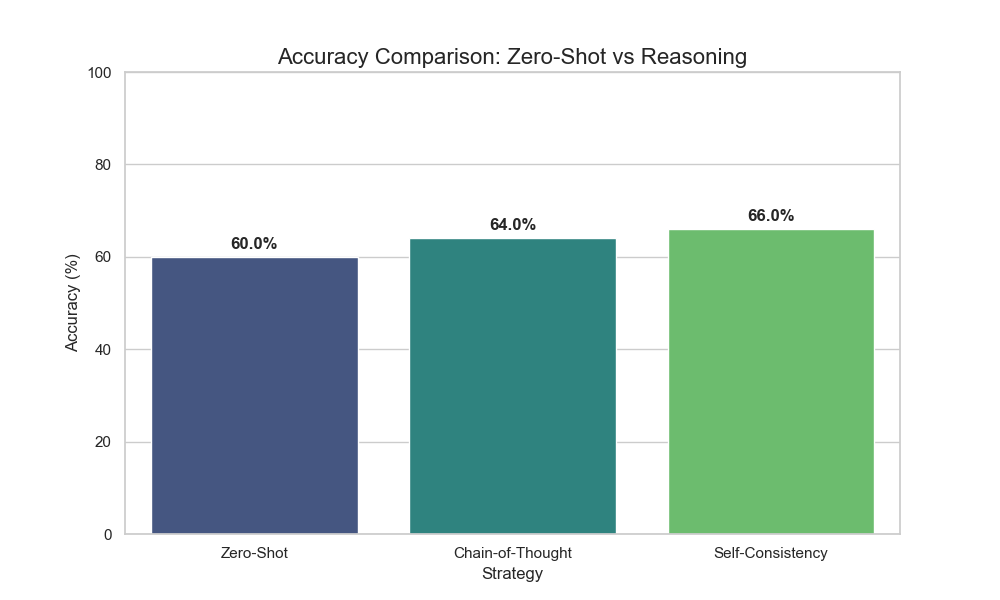
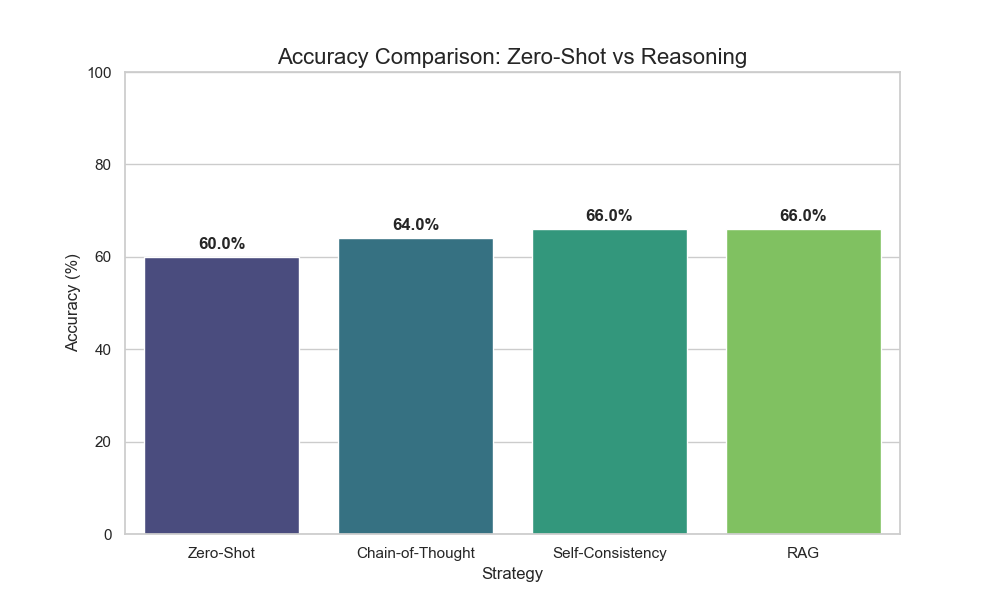
feat: implemented RAG pipeline. Closes #8

diff --git a/src/pipelines/rag.py b/src/pipelines/rag.py
@@ -1,0 +1,101 @@
+import pandas as pd
+import time
+from tqdm import tqdm
+import os
+
+from src.core.llm import LocalLLM
+from src.core.retriever import WebRetriever
+from src.core.evaluator import evaluate_accuracy, normalize_answer
+from src.data.loader import load_fever_data
+
+class RAGPipeline:
+    """
+    Implements Retrieval-Augmented Generation (RAG).
+
+    Workflow:
+    1. Retrieve: Search the wev for evidence related to the claim.
+    2. Augment: Inject that evidence into the prompt.
+    3. Generate: Ask the LLM to verify the claim based on that evidence.
+    """
+
+    def __init__(self, model_name="llama3.1"):
+        self.llm = LocalLLM(model_name=model_name, temperature=0.0)
+        self.retriever = WebRetriever(max_results=1)
+
+    def construct_prompt(self, claim, evidence):
+        """
+        Builds a prompt that grounds the model in the retrieved evidence.
+        """
+        return f"""You are an expert fact-checker.
+        GOAL: Verify the claim using the provided EVIDENCE. 
+
+        RULES:
+        1. PRIORITY: If the EVIDENCE confirms or contradicts the claim, base your answer on it.
+        2. FALLBACK: If the EVIDENCE is irrelevant or incomplete, verify the claim using your INTERNAL KNOWLEDGE.
+        3. SYNONYMS: Use common sense (e.g., "Youtuber" = "Content Creator").
+
+        RETRIEVED EVIDENCE:
+        '''
+        {evidence}
+        '''
+
+        CLAIM:
+        "{claim}"
+
+        Based on the evidence (or your knowledge if evidence is missing), what is the verdict?
+        Format:
+        Reasoning: [Explain your logic briefly]
+        Label: [SUPPORTS, REFUTES, or NOT ENOUGH INFO]"""
+    
+    def run(self, limit=10):
+        df = load_fever_data(limit=limit)
+        if df is None: return None
+
+        print(f"\n Starting RAG pipeline on {len(df)} samples...")
+
+        predictions = []
+        latencies = []
+        retrieved_contexts = []
+
+        for _, row in tqdm(df.iterrows(), total=len(df), desc="Verifying"):
+            claim = row['claim']
+
+            start_time = time.time()
+            evidence_text = self.retriever.search(claim)
+            prompt = self.construct_prompt(claim, evidence_text)
+            response = self.llm.generate(prompt)
+            end_time = time.time()
+
+            latencies.append(end_time - start_time)
+            retrieved_contexts.append(evidence_text)
+            predictions.append(normalize_answer(response))
+
+            # Delay to avoid getting banned by DuckDuckGo
+            time.sleep(5.0)
+
+        df['rag_evidence'] = retrieved_contexts
+        df['predicted_label'] = predictions
+        df['latency_seconds'] = latencies
+
+        accuracy = evaluate_accuracy(df['predicted_label'].tolist(), df['label'].tolist())
+        avg_latency = sum(latencies) / len(latencies)
+        
+        # Export
+        os.makedirs("results/logs", exist_ok=True)
+        timestamp = time.strftime("%Y%m%d-%H%M%S")
+        log_file = f"results/logs/rag_{timestamp}.csv"
+        df.to_csv(log_file, index=False)
+        
+        print("\n" + "="*40)
+        print(f" RESULTS: RAG + Web Search ({self.llm.model_name})")
+        print("="*40)
+        print(f" Accuracy:      {accuracy:.2f}%")
+        print(f" Avg Latency:   {avg_latency:.2f}s")
+        print(f" Log saved to:  {log_file}")
+        print("="*40)
+        
+        return {"accuracy": accuracy, "latency": avg_latency}
+    
+if __name__ == "__main__":
+    pipeline = RAGPipeline(model_name="llama3.1")
+    pipeline.run(limit=50)

diff --git a/src/analysis/visualize_results.py b/src/analysis/visualize_results.py
@@ -70,7 +70,8 @@ def main():
     strategies = [
         ("zero_shot", "Zero-Shot"),
         ("cot", "Chain-of-Thought"),
-        ("self_consistency", "Self-Consistency")
+        ("self_consistency", "Self-Consistency"),
+        ("rag", "RAG")
     ]
     
     data = []
